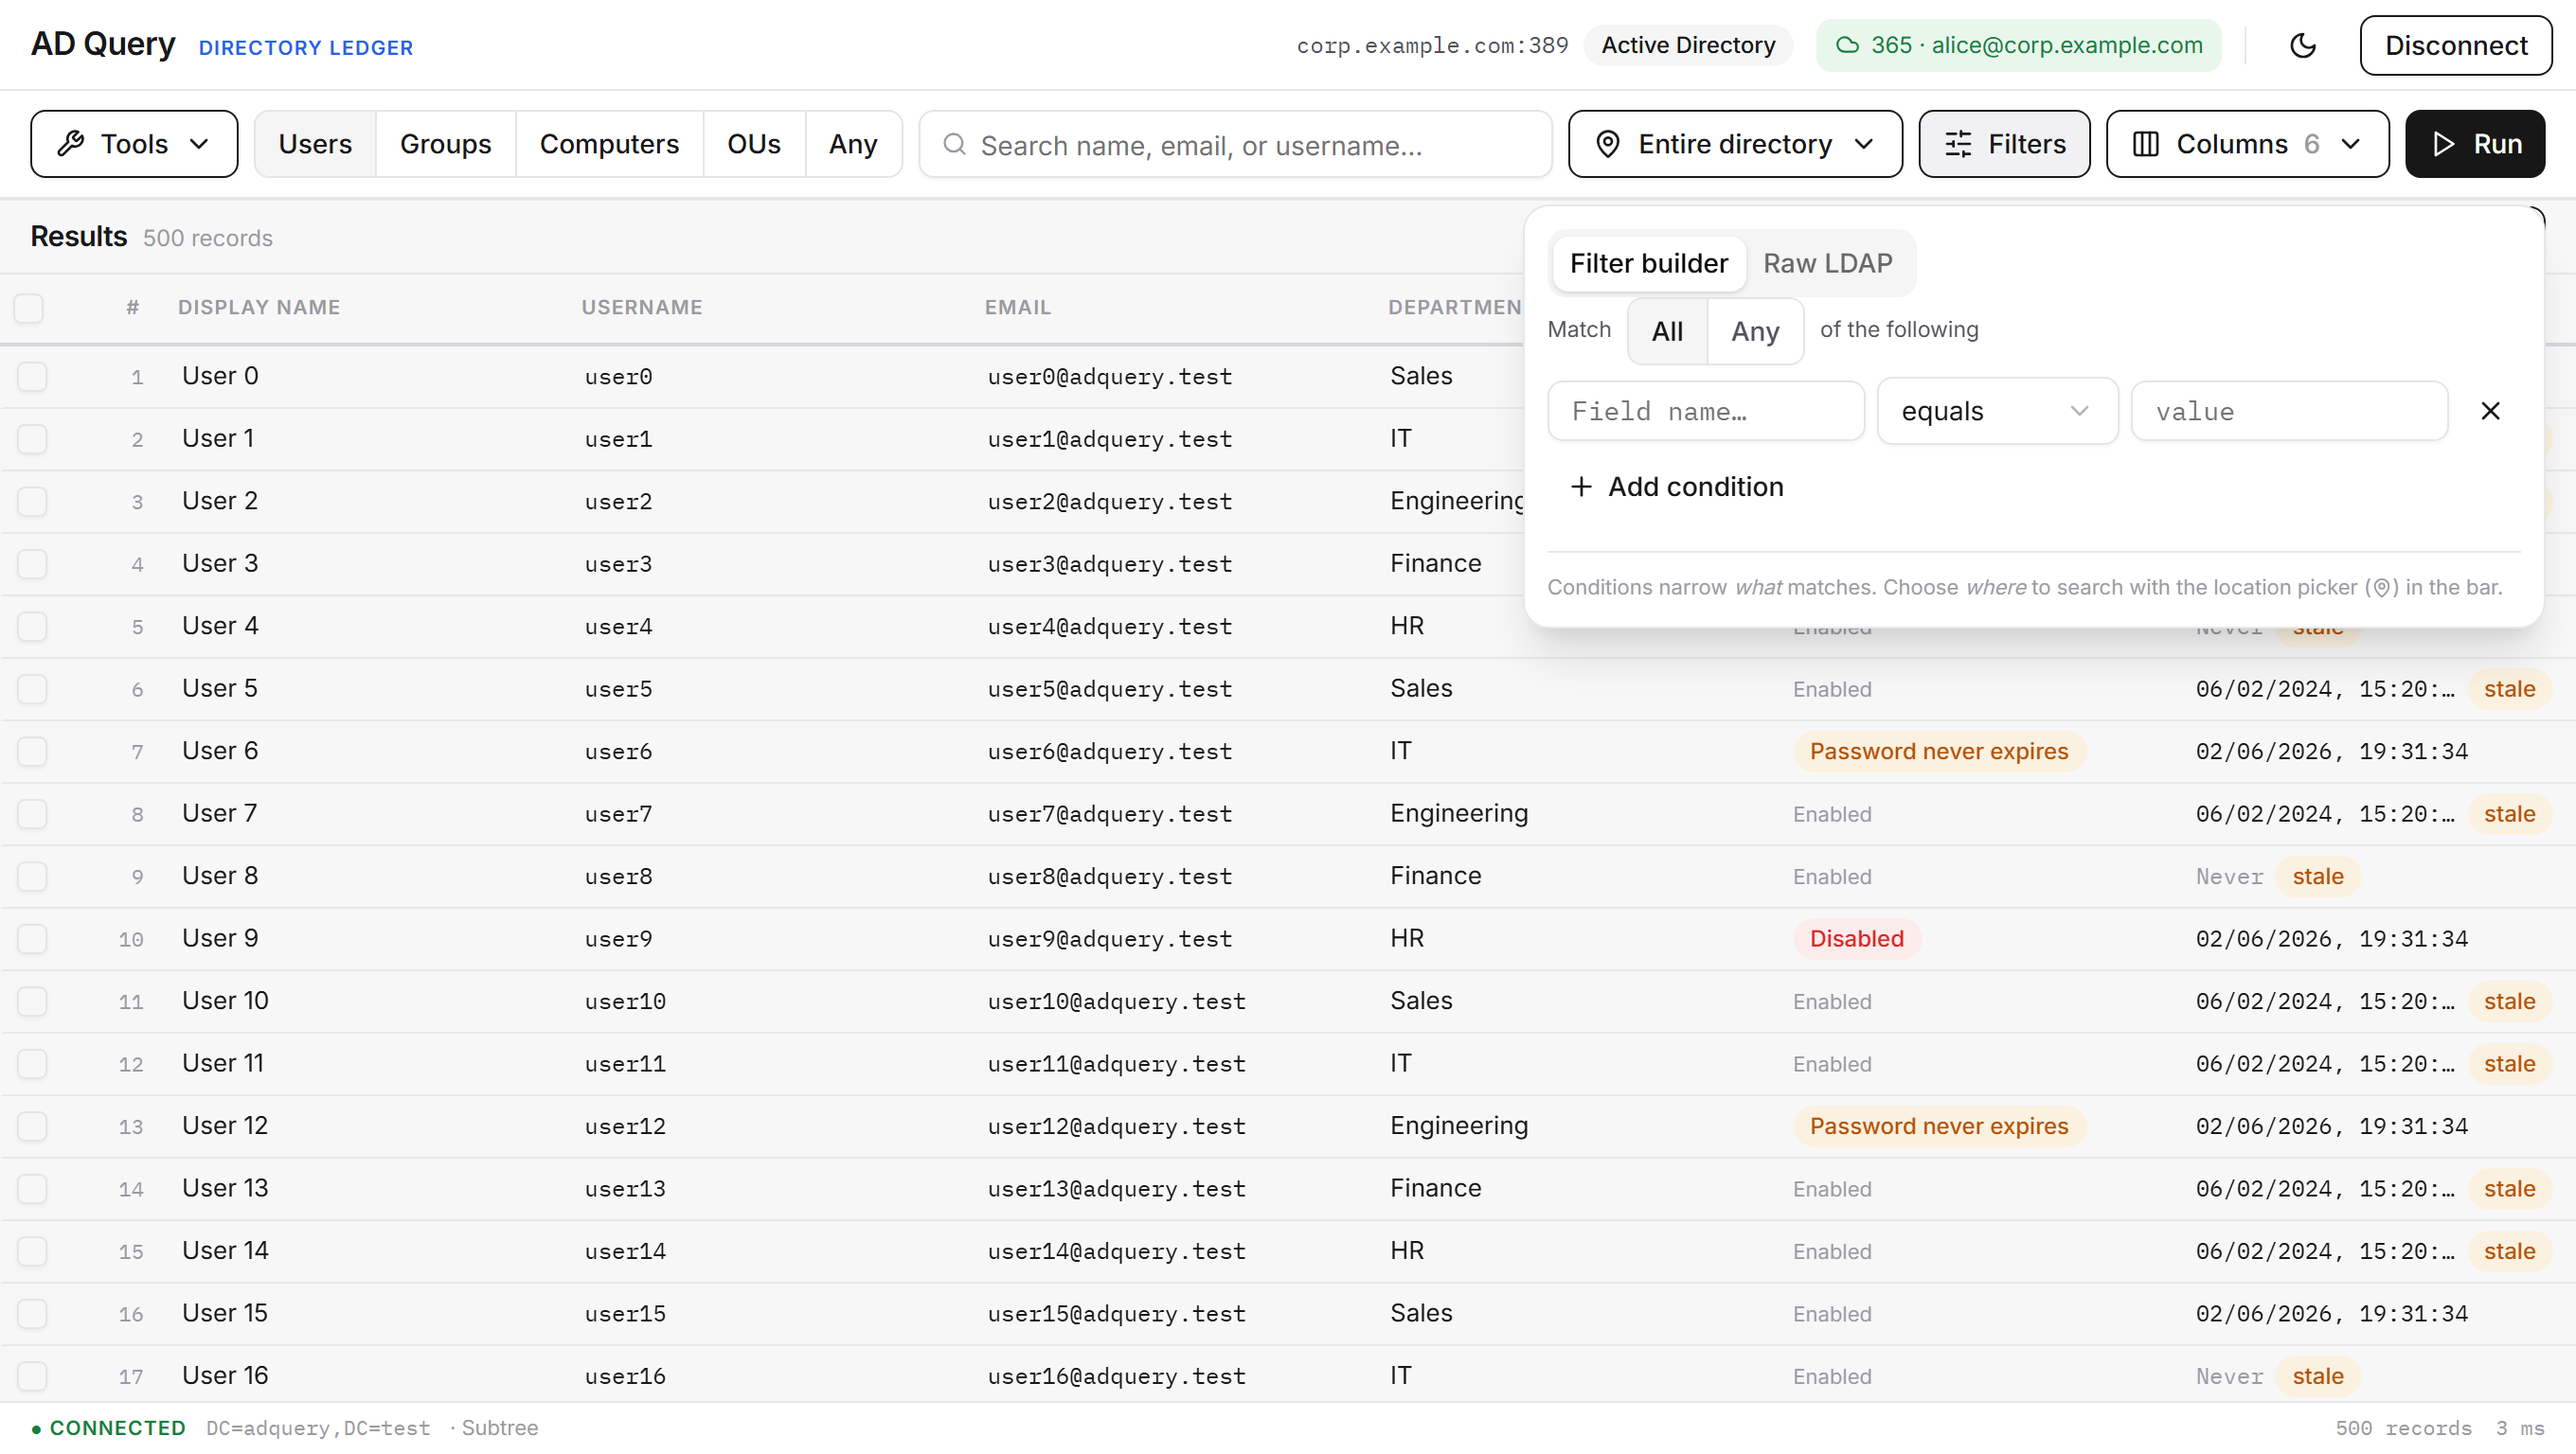
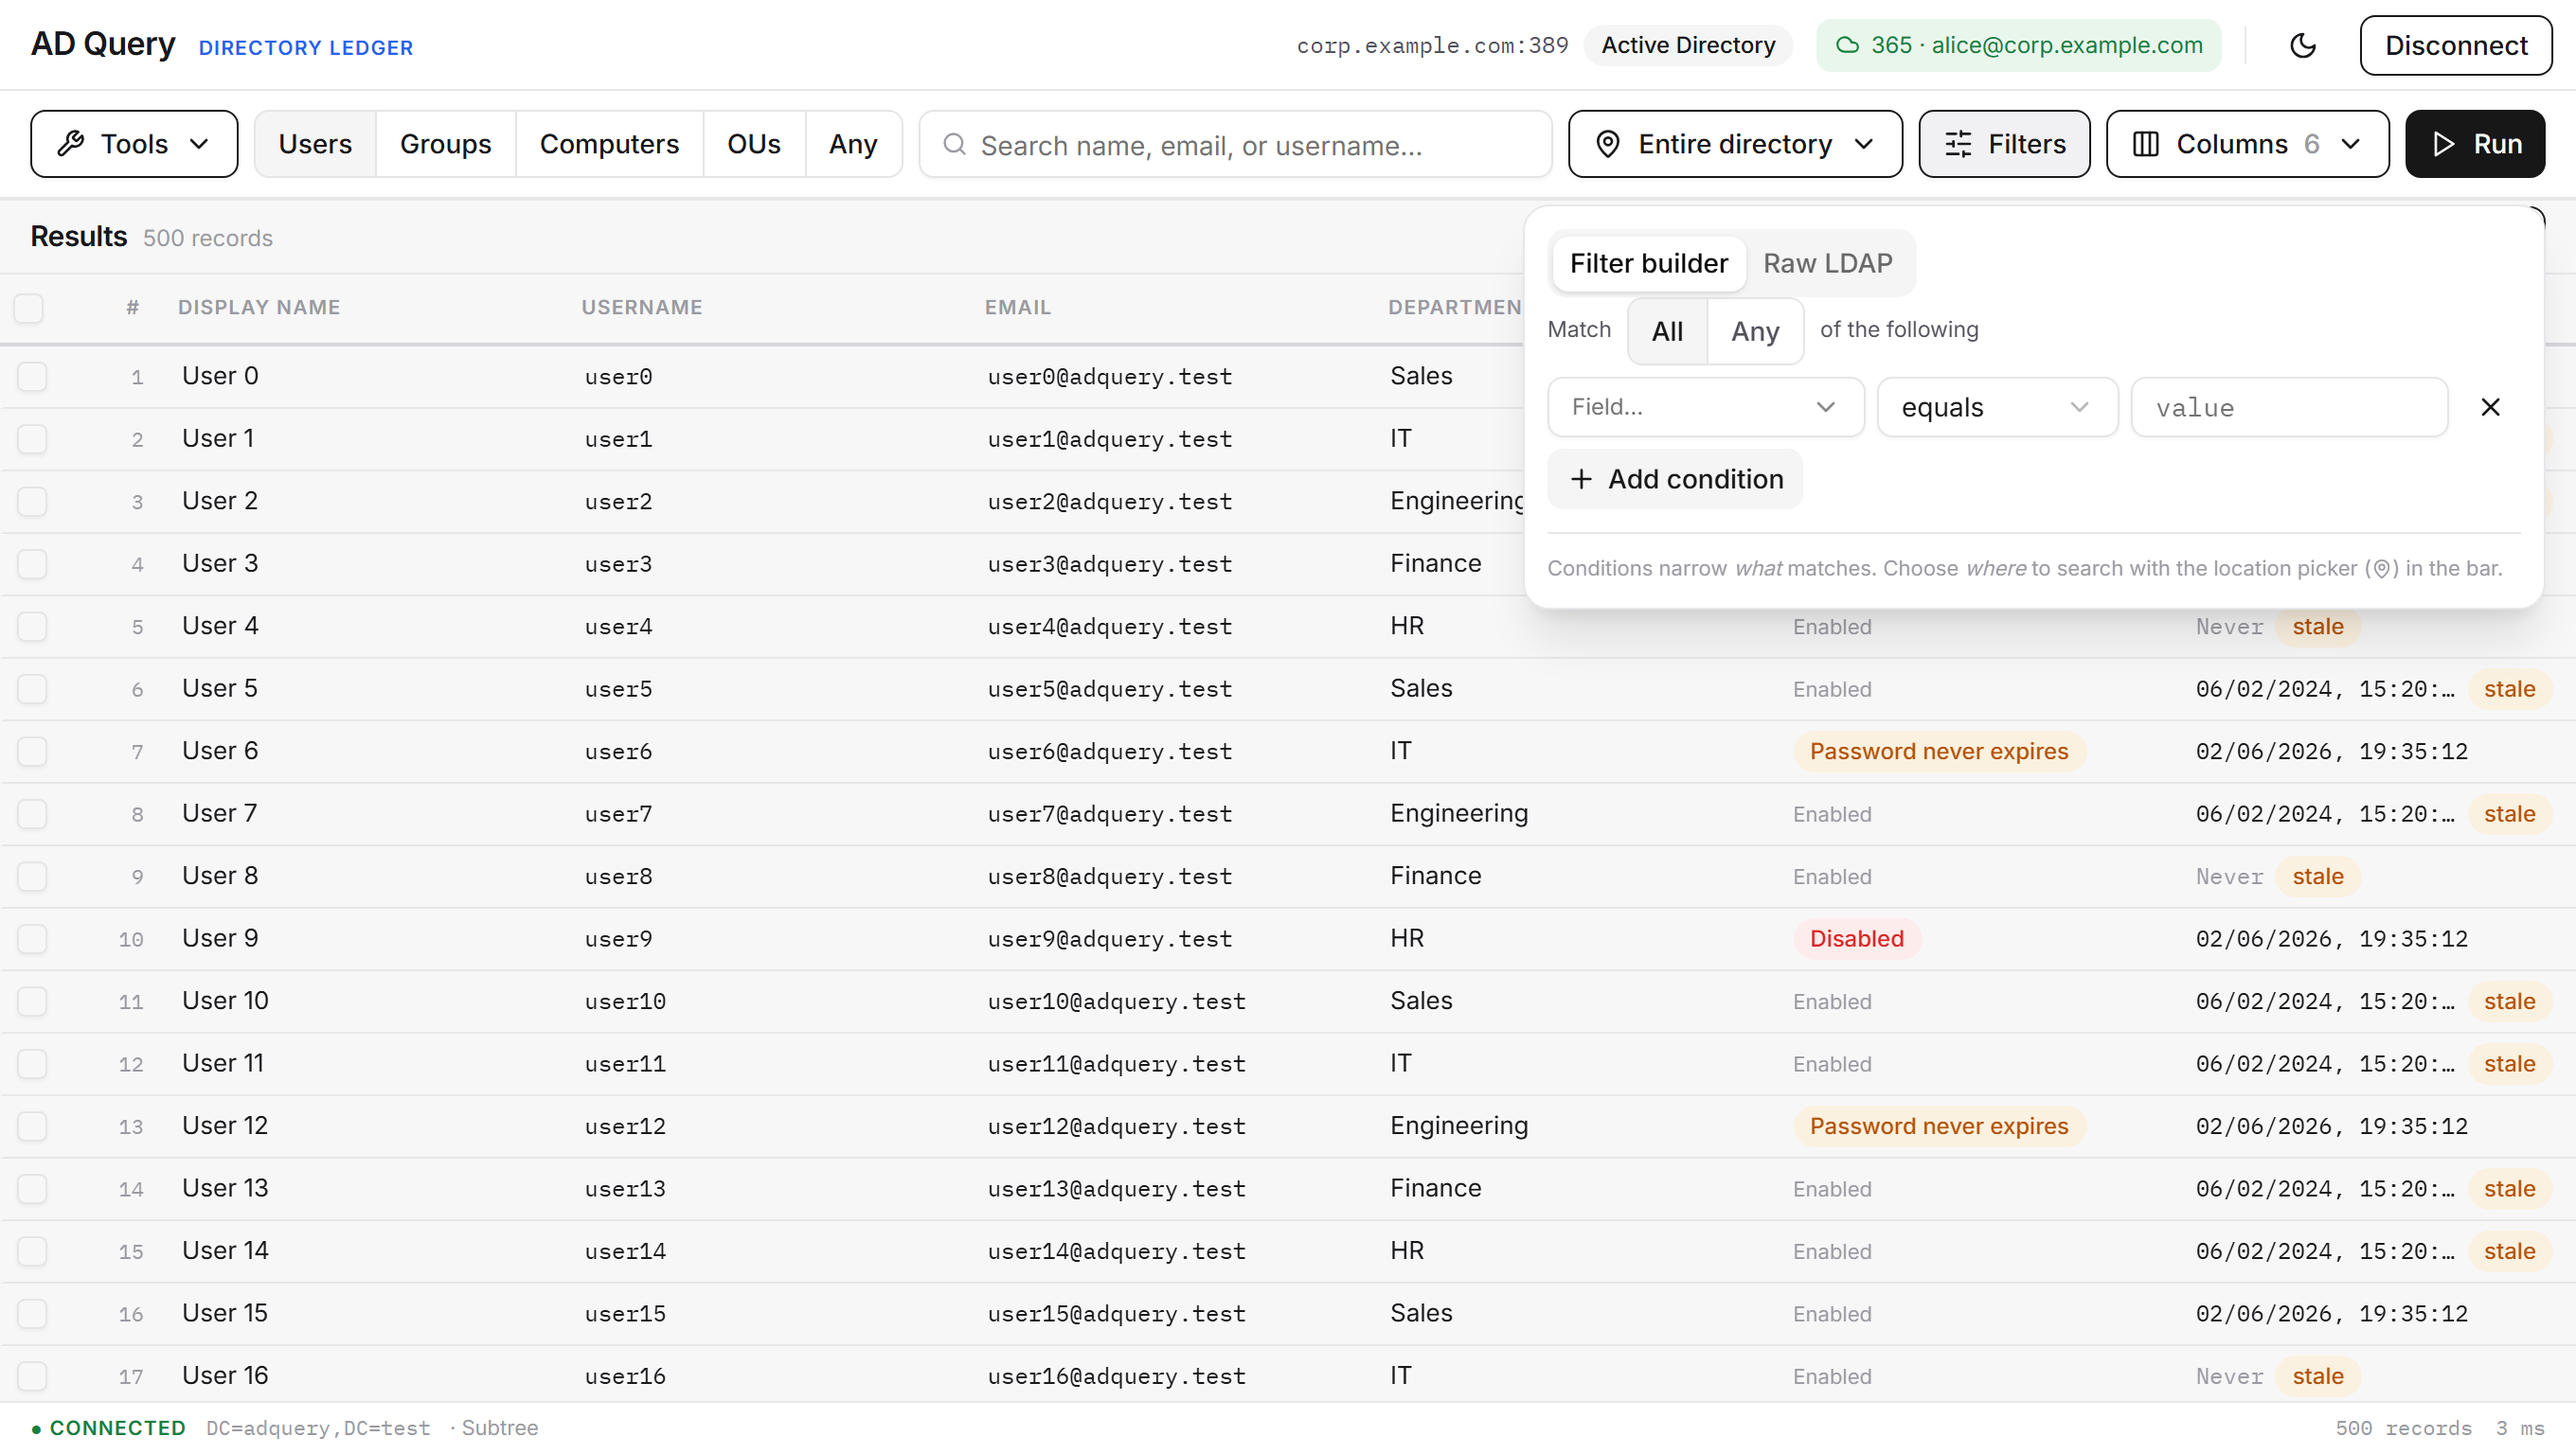
feat(filters): field is now a uniform searchable dropdown
The condition row mixed a free-text field box with a dropdown operator — not
uniform. The field is now a proper dropdown (FieldCombobox) styled identically
to the operator Select: same border, height (h-8), and chevron.

- Opens a searchable list (friendly label + raw name), common fields first,
  matching the same friendly search used elsewhere; "Use "x"" adds a custom
  attribute by name.
- Operator Select switched to size="sm" (h-8) so field + operator + value +
  remove all share one height and align.

Build + 56 vitest + gallery green.

diff --git a/app/frontend/src/components/FilterBuilder.tsx b/app/frontend/src/components/FilterBuilder.tsx
@@ -1,9 +1,11 @@
-import { Plus, X } from "lucide-react";
+import { useMemo, useState } from "react";
+import { Plus, X, ChevronDown } from "lucide-react";
 import { Condition, MatchOp, OPERATORS, OperatorKey, newCondition } from "../lib/filterBuilder";
 import { Button } from "@/components/ui/button";
 import { Input } from "@/components/ui/input";
 import { Select, SelectContent, SelectItem, SelectTrigger, SelectValue } from "@/components/ui/select";
 import { ToggleGroup, ToggleGroupItem } from "@/components/ui/toggle-group";
+import { Popover, PopoverTrigger, PopoverContent } from "@/components/ui/popover";
 import { labelFor, COMMON_COLUMNS } from "../lib/attrLabels";
 
 interface Props {
@@ -39,10 +41,9 @@ export function FilterBuilder({ conditions, matchOp, onChange, attributes }: Pro
         const needsValue = OPERATORS.find((o) => o.key === c.operator)?.needsValue ?? true;
         return (
           <div key={c.id} className="flex items-center gap-1.5">
-            <Input className="font-mono h-8 flex-1 min-w-0" list="adq-attr-list" placeholder="Field name…"
-              value={c.attribute} onChange={(e) => update(c.id, { attribute: e.target.value })} />
+            <FieldCombobox value={c.attribute} attributes={attributes} onChange={(v) => update(c.id, { attribute: v })} />
             <Select value={c.operator} onValueChange={(val) => update(c.id, { operator: val as OperatorKey })}>
-              <SelectTrigger className="h-8 w-32 shrink-0"><SelectValue /></SelectTrigger>
+              <SelectTrigger size="sm" className="w-32 shrink-0"><SelectValue /></SelectTrigger>
               <SelectContent>
                 {OPERATORS.map((o) => <SelectItem key={o.key} value={o.key}>{o.label}</SelectItem>)}
               </SelectContent>
@@ -55,12 +56,65 @@ export function FilterBuilder({ conditions, matchOp, onChange, attributes }: Pro
       })}
 
       <Button variant="ghost" size="sm" className="px-2" onClick={add}><Plus size={13} /> Add condition</Button>
-
-      {/* Common fields first (with plain-language labels), then the full set. */}
-      <datalist id="adq-attr-list">
-        {COMMON_COLUMNS.filter((a) => attributes.some((x) => x.toLowerCase() === a.toLowerCase())).map((a) => <option key={"c-" + a} value={a} label={labelFor(a)} />)}
-        {attributes.map((a) => <option key={a} value={a} label={labelFor(a)} />)}
-      </datalist>
     </div>
+  );
+}
+
+// Searchable field dropdown — styled to match the operator <Select> so the row
+// reads as two uniform dropdowns. Searches friendly labels + raw names, common
+// fields first, and allows a custom attribute via "Use …".
+function FieldCombobox({ value, attributes, onChange }: { value: string; attributes: string[]; onChange: (v: string) => void }) {
+  const [open, setOpen] = useState(false);
+  const [q, setQ] = useState("");
+
+  const matches = useMemo(() => {
+    const query = q.trim().toLowerCase();
+    const ranked = [...COMMON_COLUMNS.filter((a) => attributes.some((x) => x.toLowerCase() === a.toLowerCase())), ...attributes];
+    const seen = new Set<string>();
+    const out: string[] = [];
+    for (const a of ranked) {
+      const lc = a.toLowerCase();
+      if (seen.has(lc)) continue;
+      seen.add(lc);
+      if (!query || lc.includes(query) || labelFor(a).toLowerCase().includes(query)) out.push(a);
+      if (out.length >= 50) break;
+    }
+    return out;
+  }, [q, attributes]);
+
+  const exact = !!q.trim() && attributes.some((a) => a.toLowerCase() === q.trim().toLowerCase());
+  function pick(a: string) { onChange(a); setOpen(false); setQ(""); }
+
+  return (
+    <Popover open={open} onOpenChange={(o) => { setOpen(o); if (!o) setQ(""); }}>
+      <PopoverTrigger asChild>
+        <button type="button"
+          className="flex h-8 flex-1 min-w-0 items-center justify-between gap-2 rounded-md border border-input bg-transparent px-3 text-[12px] shadow-xs outline-none transition-[color,box-shadow] focus-visible:border-ring focus-visible:ring-[3px] focus-visible:ring-ring/50 dark:bg-input/30">
+          <span className={"truncate " + (value ? "" : "text-muted-foreground")}>{value ? labelFor(value) : "Field…"}</span>
+          <ChevronDown className="size-4 shrink-0 opacity-50" />
+        </button>
+      </PopoverTrigger>
+      <PopoverContent align="start" className="w-[260px] p-0">
+        <div className="p-2 border-b border-line">
+          <Input autoFocus value={q} onChange={(e) => setQ(e.target.value)} placeholder="Search fields…" className="h-8" />
+        </div>
+        <div className="max-h-56 overflow-auto py-1">
+          {matches.map((a) => (
+            <button key={a} type="button" onClick={() => pick(a)}
+              className="flex w-full items-center justify-between gap-2 px-3 py-1.5 text-left text-[12.5px] hover:bg-sunken">
+              <span className="truncate">{labelFor(a)}</span>
+              <span className="shrink-0 text-[10.5px] text-ink-3 font-mono">{a}</span>
+            </button>
+          ))}
+          {q.trim() && !exact && (
+            <button type="button" onClick={() => pick(q.trim())}
+              className="flex w-full items-center gap-2 px-3 py-1.5 text-left text-[12.5px] text-brand hover:bg-sunken">
+              Use “{q.trim()}”
+            </button>
+          )}
+          {matches.length === 0 && !q.trim() && <div className="px-3 py-2 text-[12px] text-ink-3">No fields.</div>}
+        </div>
+      </PopoverContent>
+    </Popover>
   );
 }
